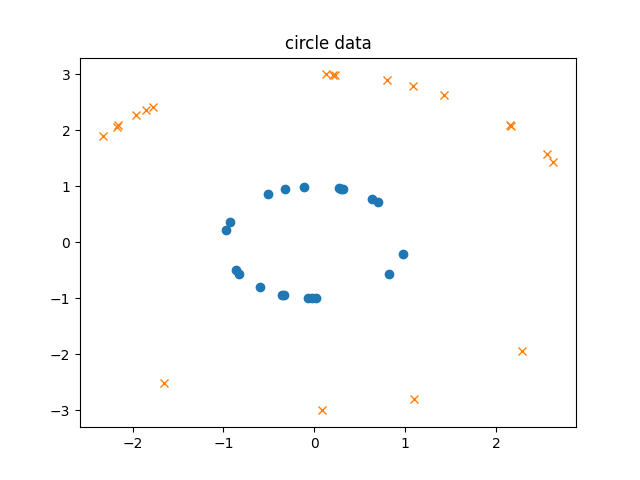
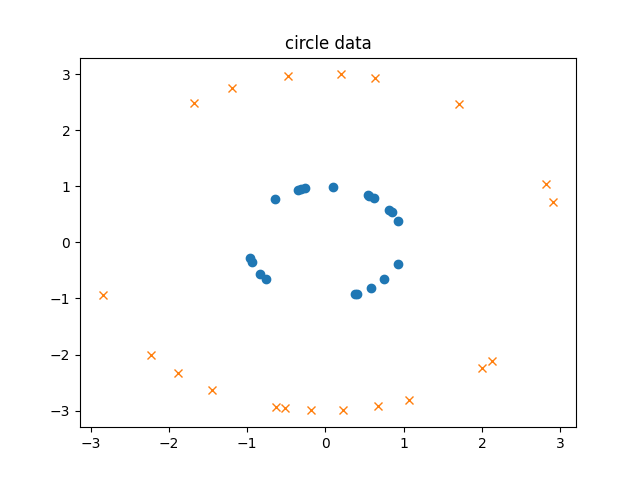
add knn

diff --git a/data/data.py b/data/data.py
@@ -7,6 +7,12 @@ from matplotlib import pyplot as plt
 
 
 class Data:
+    def to_label(self, D):
+        np.random.shuffle(D)
+        X, Y = [], []
+        for x, y in D:
+            X.append(x); Y.append(y)
+        return np.array(X), np.array(Y)
 
     def circle(self, n1, n2):
         def circle(r):
@@ -15,62 +21,69 @@ class Data:
             y = np.sqrt(r*r - x*x) * sign
             return x, y
 
-        X1, X2 = [], []
+        D = []
         r1, r2 = 1, 3
+        l1, l2 = 0, 1
         for i in range(n1):
             x, y = circle(r1)
-            X1.append((x, y))
+            D.append(((x, y), l1))
         for i in range(n2):
             x, y = circle(r2)
-            X2.append((x, y))
-        return X1, X2
+            D.append(((x, y), l2))
+        return self.to_label(D)
 
     def xor(self):
-        X1 = [(0, 0), (1, 1)]
-        X2 = [(0, 1), (1, 0)]
-        return X1, X2
+        l1, l2 = 0, 1
+        X1 = [((0, 0), l1), ((1, 1), l1)]
+        X2 = [((0, 1), l2), ((1, 0), l2)]
+       
+        D = X1 + X2
+        return self.to_label(D)
+
 
     def ls_balanced(self, n1, n2):
-        X1, X2 = [], []
+        l1, l2 = 0, 1
+        D = []
         x1, y1 = (5, 10), (-5, 5)
         for i in range(n1):
             x, y = np.random.uniform(*x1), np.random.uniform(*y1)
-            X1.append((x, y))
+            D.append(((x, y), l1))
         x2, y2 = (-2, 3), (-5, 5)
         for i in range(n2):
             x, y = np.random.uniform(*x2), np.random.uniform(*y2)
-            X2.append((x, y))
-        return X1, X2
+            D.append(((x, y), l2))
+        return self.to_label(D)
 
     def ls_unbalanced(self, n1, n2):
-        X1, X2 = [], []
+        l1, l2 = 0, 1
+        D = []
         x1, y1 = (7, 10), (-5, 5)
         for i in range(n1):
             x, y = np.random.uniform(*x1), np.random.uniform(*y1)
-            X1.append((x, y))
+            D.append(((x, y), l1))
         extreme_n2 = 3
         ex2, ey2 = (5, 6), (-3, 3)
         for i in range(extreme_n2):
             x, y = np.random.uniform(*ex2), np.random.uniform(*ey2)
-            X2.append((x, y))
+            D.append(((x, y), l2))
         clusture_n2 = n2 - extreme_n2
         cx2, cy2 = (-3, 1), (-5, 5)
         for i in range(clusture_n2):
             x, y = np.random.uniform(*cx2), np.random.uniform(*cy2)
-            X2.append((x, y))
-        return X1, X2
+            D.append(((x, y), l2))
+        return self.to_label(D)
 
 
-def visualize(X1, X2, title, figname):
+def visualize(X, Y, title, figname):
     x1, y1 = [], []
-    for x, y in X1:
-        x1.append(x)
-        y1.append(y)
-
     x2, y2 = [], []
-    for x, y in X2:
-        x2.append(x)
-        y2.append(y)
+    for x, y in zip(X, Y):
+        if y == 0:
+            x1.append(x[0])
+            y1.append(x[1])
+        else:
+            x2.append(x[0])
+            y2.append(x[1])
 
     fig = plt.figure()
     ax = fig.add_subplot()

diff --git a/knn/k_nearest_neighbour.py b/knn/k_nearest_neighbour.py
@@ -1,0 +1,105 @@
+#! /usr/bin/env python3
+
+import numpy as np
+import matplotlib
+matplotlib.use('Agg')
+from matplotlib import pyplot as plt
+from collections import defaultdict
+from data.data import Data
+from model.base_model import BaseModel
+
+
+class KNN(BaseModel):
+    def __init__(self, k, dist):
+        self.k = k
+        self.dist = dist
+
+    def train(self, X, Y):
+        self.X = X
+        self.Y = Y
+
+    @staticmethod
+    def vote(d, k):
+        y = defaultdict(lambda : 0)
+        max_v = 0
+        for i in range(min(k, len(d))):
+            _, label = d[i]
+            y[label] += 1
+            max_v = max(max_v, y[label])
+        labels_set = [k for k, v in y.items() if max_v == v]
+        if len(labels_set) > 1:
+            return self.vote(d, k-2)
+        return labels_set[0]
+
+    def predict(self, x):
+        d = []
+        for dx, dy in zip(self.X, self.Y):
+            d.append((self.dist(x, dx), dy))
+        d.sort(key=lambda x: x[0])
+        return self.vote(d, self.k)
+
+
+def distance_func(p):
+    def dist(x1, x2):
+        diff = np.abs(x1-x2)
+        max_v = np.max(diff)
+        if p > 6 or (max_v > 50 and p > 3):
+            return max_v
+        return np.power(np.sum(np.power(diff, p)), 1/p)
+    return dist
+
+
+def cosine_fun():
+    return lambda x1, x2: np.dot(x1, x2) / (np.linalg.norm(x1) * np.linalg.norm(x2))
+
+
+def test_accuracy(knn, X, Y):
+    acc = 0
+    for x, y in zip(X, Y):
+        acc += 1 if y == knn.predict(np.array(x)) else 0
+    return acc / len(X)
+
+
+def visualize(knn, x_range, y_range, figname):
+    x = np.arange(*x_range, 0.1)
+    y = np.arange(*y_range, 0.1)
+    xx, yy = np.meshgrid(x, y)
+    fx, fy = xx.flatten(), yy.flatten()
+    Xhat = np.column_stack((fx, fy))
+    Yhat = []
+    for x in Xhat:
+        Yhat.append(knn.predict(x))
+    zz = np.array(Yhat).reshape(xx.shape)
+
+    plt.contourf(xx, yy, zz, cmap='Paired')
+    plt.savefig(figname)
+
+
+def experiment():
+    k = 5
+    p = 2
+
+    data = Data()
+
+    X, Y = data.circle(n1=200, n2=200)
+
+    knn = KNN(k, distance_func(p))
+    knn.train(X, Y)
+
+    testX, testY = data.circle(n1=40, n2=40)
+    print(test_accuracy(knn, testX, testY))
+
+    x, y = [], []
+    for a, b in X:
+        x.append(a); y.append(b)
+    min_x, max_x = np.min(x), np.max(x)
+    min_y, max_y = np.min(y), np.max(y)
+    visualize(knn, (min_x, max_x), (min_y, max_y), "knn/circle.png")
+
+
+if __name__ == '__main__':
+    experiment()
+    
+
+
+

diff --git a/model/base_model.py b/model/base_model.py
@@ -1,0 +1,10 @@
+#! /usr/bin/env python3
+
+class BaseModel:
+    def train(self, X, Y):
+        raise NotImplementedError
+
+    def predict(self, X):
+        raise NotImplementedError
+
+
